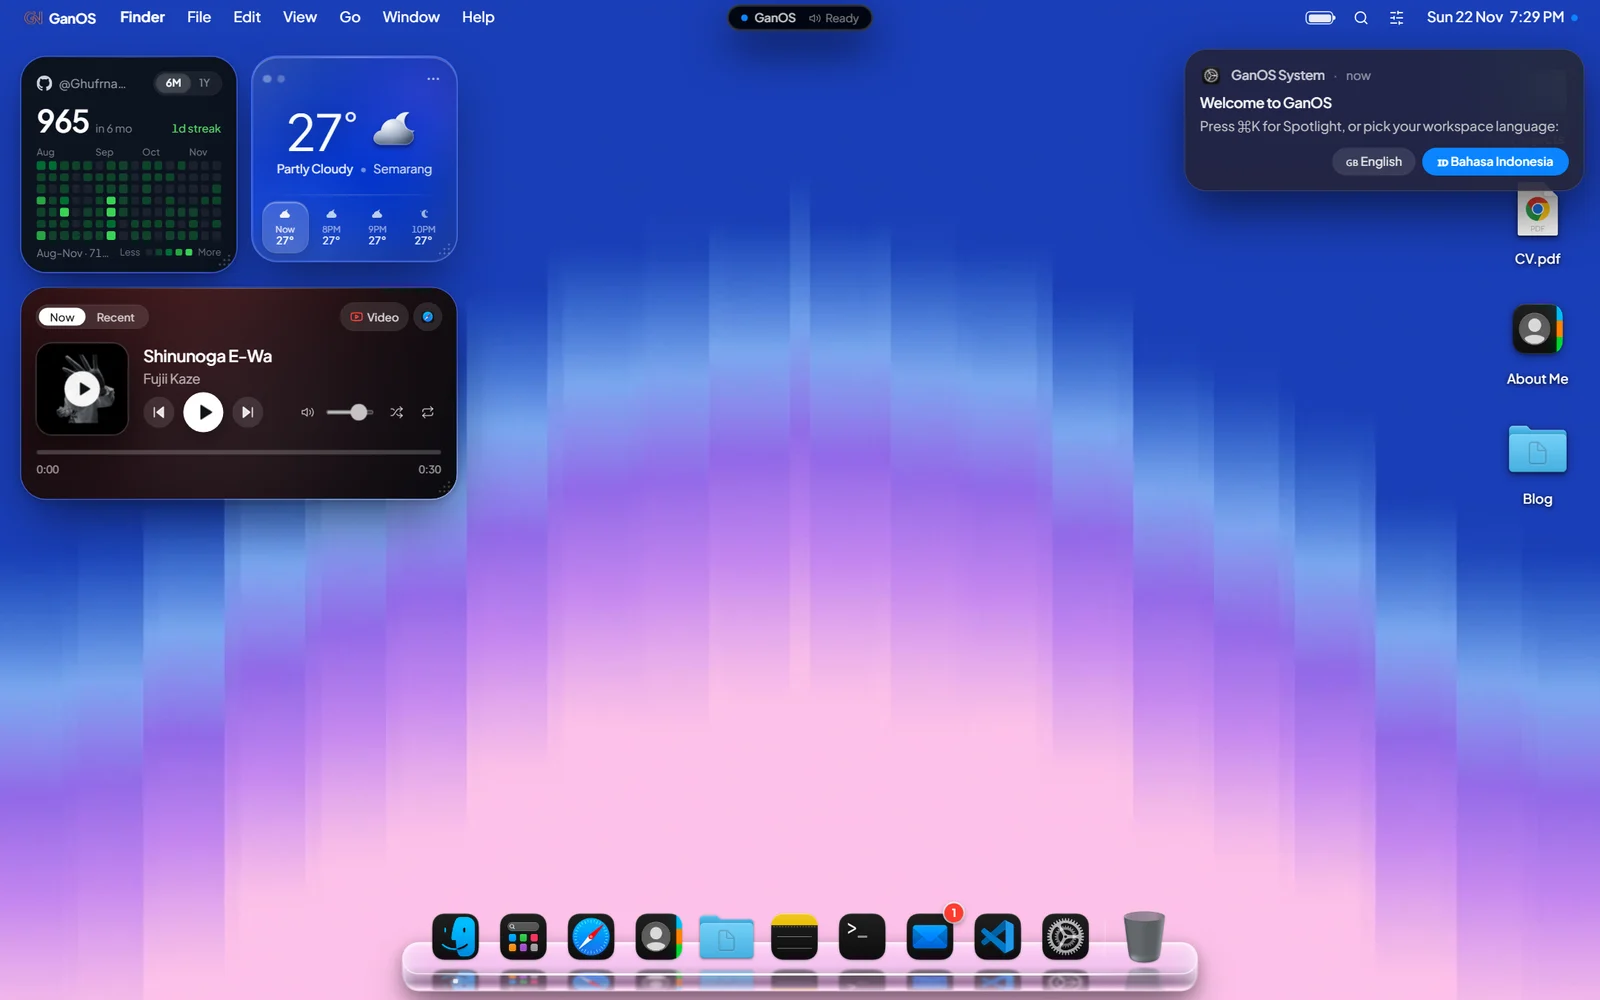
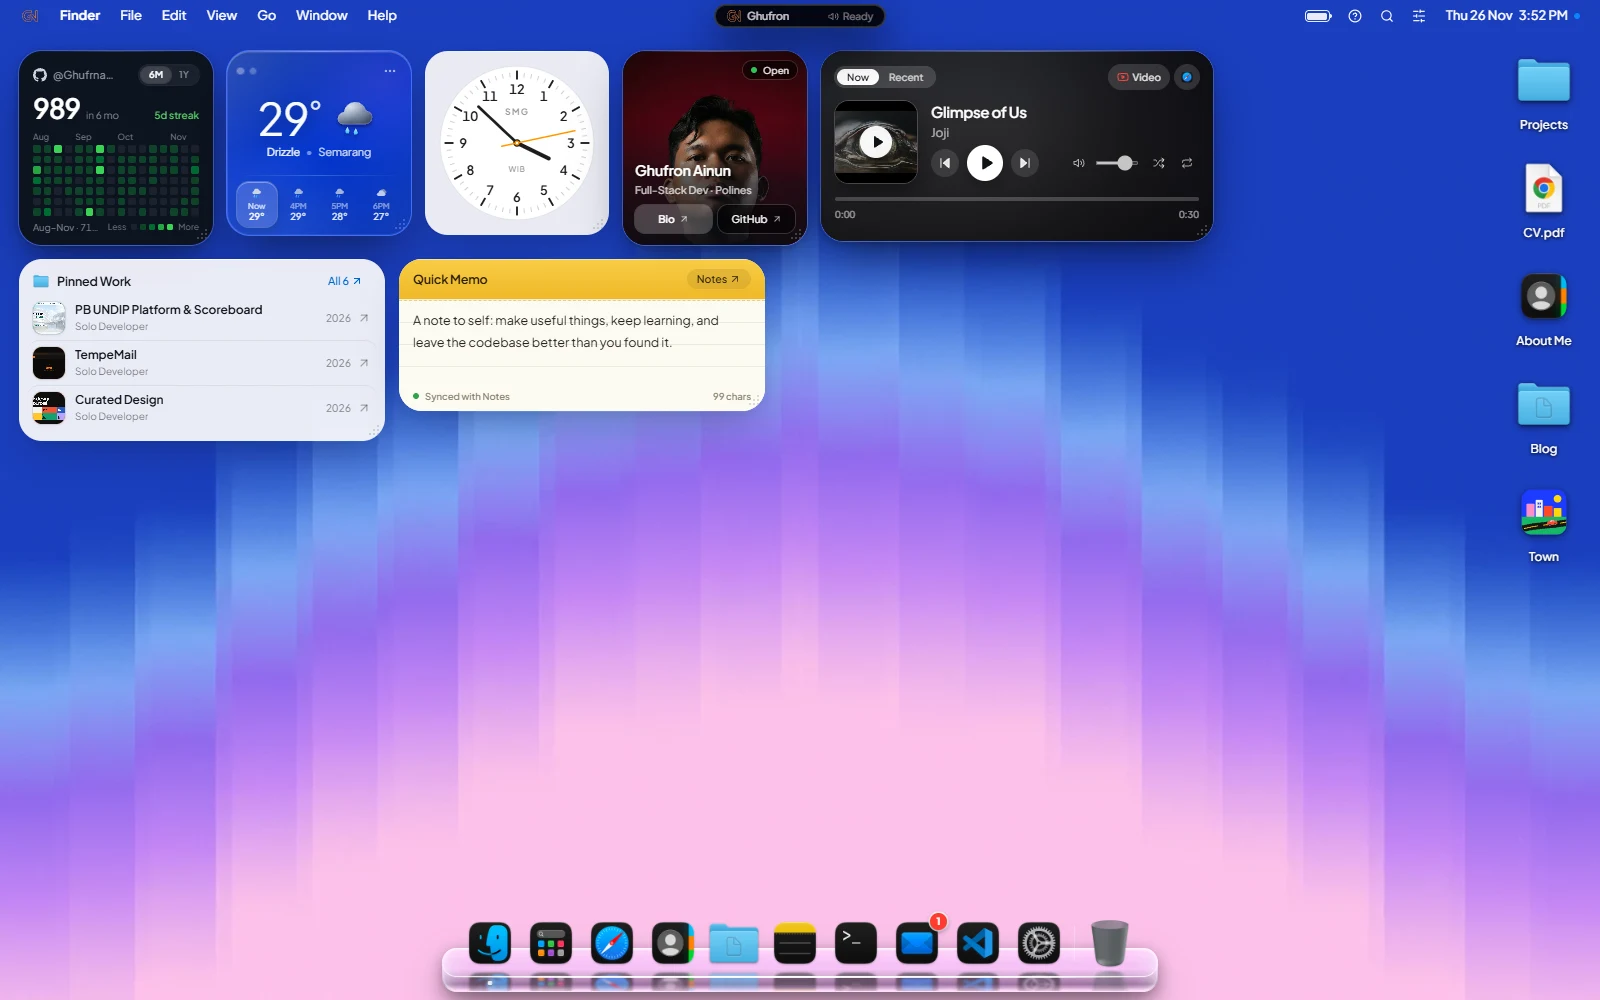
update readme for town and performance updates and refresh preview screenshots

diff --git a/README.md b/README.md
@@ -10,27 +10,33 @@
 
 ## Overview
 
-This repository powers **[ghufronainun.tech](https://ghufronainun.tech/)** — a macOS-inspired interactive web desktop housing the portfolio, engineering case studies, writing log, and resume of **Ghufron Ainun Najib**.
+This repository powers **[ghufronainun.tech](https://ghufronainun.tech/)** — a macOS-inspired interactive web desktop housing the portfolio, engineering case studies, 3D drive-through showcase (**Ghufron Town** at `/town`), writing log, and resume of **Ghufron Ainun Najib**.
 
-Designed with tactile liquid-glass surfaces, hardware-decoded animated wallpapers, spring-driven window management, and an adaptive iOS/iPadOS-style mobile home screen. The previous editorial portfolio remains preserved at `/old` and browseable directly inside the embedded Safari app.
+Designed with tactile liquid-glass surfaces, GPU-accelerated window & widget dragging, hardware-decoded animated wallpapers, spring-driven window management, and an adaptive iOS/iPadOS-style mobile home screen. The previous editorial portfolio remains preserved at `/old` and browseable directly inside the embedded Safari app.
 
 ---
 
 ## Previews
 
-| Finder & Case Studies | Mobile OS Home Screen |
+| Finder & Case Studies | Ghufron Town (3D) |
 | :---: | :---: |
-| ![Projects Finder](docs/screenshots/ganos-projects.webp) | <img src="docs/screenshots/ganos-mobile.webp" alt="Mobile Home Screen" width="260" /> |
+| ![Projects Finder](docs/screenshots/ganos-projects.webp) | ![Ghufron Town 3D](docs/screenshots/ganos-town.webp) |
+
+<p align="center">
+  <strong>Mobile OS Home Screen</strong><br />
+  <img src="docs/screenshots/ganos-mobile.webp" alt="Mobile Home Screen" width="260" />
+</p>
 
 ---
 
 ## Highlights
 
-- **Interactive Desktop Shell (`v2.4`)**: Draggable/resizable windows with edge snapping, 3D glass dock with magnification physics, Menu Bar, Control Center, Dynamic Island, `⌘K` Spotlight search, `⌘Tab` app switcher, and Notification Center.
-- **Built-in Apps**: Finder (Projects & Case Studies), curated sandboxed Safari (`/old`, portfolio routes, & YouTube embeds), Notes (with interactive skills checklist & scratchpad), interactive `zsh` Terminal (`help`, `neofetch`, `open`, `notify`), Mail, and System Settings (appearance, system font switcher, display brightness, and 16 dynamic/still wallpapers).
-- **Live Desktop Widgets**: GitHub contribution heatmap & 12-month velocity bar chart (`6M` / `1Y`), live Semarang weather widget with adaptive glass refraction, interactive Music player, Quick Memo, and responsive Mobile Home Screen widget stack.
+- **Interactive Desktop Shell (`v2.4`)**: Zero-rerender GPU-translated window/widget dragging with edge snapping, 3D glass dock with magnification physics & hover chunk preloading, Menu Bar, Control Center, Dynamic Island, instant `⌘K` Spotlight search, `⌘Tab` app switcher, anchored 3-step Quick Start Guide, interactive Trash easter eggs, and lazy Notification Center.
+- **Ghufron Town (`/town`)**: Interactive Three.js 3D world with scroll tour and free-drive navigation across featured projects, day/night switch, deep-linked project sheets (`/town/<slug>`), and an accessible reduced-motion fallback.
+- **Built-in Apps**: Finder (Projects & Case Studies), curated sandboxed Safari (`/old`, portfolio routes, & YouTube embeds), Notes (interactive skills checklist & scratchpad), interactive `zsh` Terminal (`help`, `neofetch`, `open`, `notify`), Mail, and System Settings (appearance, on-demand font switcher, display brightness, and 16 dynamic/still wallpapers).
+- **Live Desktop Widgets**: GitHub contribution heatmap & 12-month velocity bar chart (`6M` / `1Y`), live Semarang Weather widget with GPU specular glass refraction, Semarang `WIB` analog/digital Clock, Profile card, Music player, Pinned Work, Quick Memo, and responsive Mobile Home Screen widget stack.
 - **Hardware-Decoded Wallpapers**: 16 curated wallpapers (9 seamless H.264 MP4 loops with instant WebP posters + 7 high-res stills) with automatic `prefers-reduced-motion` and tab-visibility throttling.
-- **Prerendered SEO & Structured Data**: Static HTML prerendering across all 11 public routes, dynamic Open Graph & Twitter Cards (`public/og-image.png`), JSON-LD schemas (`Person`, `ProfilePage`, `WebSite`, `SoftwareApplication`), `sitemap.xml`, `robots.txt`, and `llms.txt`.
+- **Prerendered SEO & Performance**: Static HTML prerendering across 18 public routes (`5` static + `/town` + `6` project case studies + `6` town project routes), dynamic Open Graph & Twitter Cards (`public/og-image.png`), JSON-LD schemas (`Person`, `ProfilePage`, `WebSite`, `SoftwareApplication`), `sitemap.xml` (12 canonical URLs), `robots.txt`, `llms.txt`, on-demand non-critical Google Fonts, and compacted SVG brand vectors.
 - **Supabase Writing Log**: Type-safe blog queries, Tiptap rich-text editor, and Row-Level Security (RLS) for `/blog` and `/admin`.
 
 ---
@@ -79,6 +85,7 @@ Designed with tactile liquid-glass surfaces, hardware-decoded animated wallpaper
 | **Frontend** | React 18, TypeScript 5, Vite 5 (SWC), React Router 6 |
 | **Styling & UI** | Tailwind CSS 3, Radix UI Primitives, Lucide Icons |
 | **Motion** | Framer Motion 12, GSAP, Lenis Scroll |
+| **3D Graphics** | Three.js, WebGL |
 | **Data & State** | Supabase JS (`@supabase/supabase-js`), TanStack Query 5 |
 | **Rich Text** | Tiptap Editor (`@tiptap/react`) |
 | **Build & Assets** | Sharp, Static HTML Prerenderer, Sitemap Generator |
@@ -89,7 +96,7 @@ Designed with tactile liquid-glass surfaces, hardware-decoded animated wallpaper
 
 ```text
 .
-├── docs/screenshots/          # README desktop, Finder & mobile previews
+├── docs/screenshots/          # README desktop, Finder, Town 3D & mobile previews
 ├── public/                    # Static assets, wallpapers, audio, icons & metadata
 │   ├── wallpapers/            # Curated H.264 MP4 loops, WebP posters & thumbnails
 │   ├── macos-icons/           # App & desktop icon assets
@@ -107,8 +114,9 @@ Designed with tactile liquid-glass surfaces, hardware-decoded animated wallpaper
 │   ├── data/                  # Static content (featuredProjects, sideProjects, profile, tracks)
 │   ├── hooks/                 # Custom hooks (SEO metadata, auth, analytics)
 │   ├── integrations/supabase/ # Supabase client & typed schema
-│   ├── lib/                   # Dock physics, weather, audio & notification utilities
-│   └── pages/                 # Route-level views (Index, Projects, About, Blog, Resume, OldHome)
+│   ├── lib/                   # Dock physics, weather, font loader, audio & notification utilities
+│   ├── pages/                 # Route-level views (Index, Town, Projects, About, Blog, Resume, OldHome)
+│   └── town/                  # Ghufron Town 3D world, tour camera/driving physics & UI overlays
 └── supabase/                  # Database migrations & storage policies
 ```
 
@@ -148,13 +156,15 @@ Designed with tactile liquid-glass surfaces, hardware-decoded animated wallpaper
 | Command | Action |
 |---|---|
 | `npm run dev` | Starts Vite dev server with HMR |
-| `npm run build` | Generates sitemap, runs `tsc -p tsconfig.app.json --noEmit`, compiles `dist/`, and prerenders 11 static pages |
+| `npm run build` | Generates sitemap, runs `tsc -p tsconfig.app.json --noEmit`, compiles `dist/`, and prerenders 18 static pages |
+| `npm run build:assets` | Regenerates brand SVG/PNG/ICO icons and Open Graph share image |
 | `npm run preview` | Serves the production build locally |
 | `npm run lint` | Runs ESLint across all `.ts`/`.tsx` files (zero warnings) |
 | `npm run test:portfolio` | Validates featured & side project metadata |
 | `npm run test:profile` | Validates profile, experience & certification data |
 | `npm run test:ux` | Validates route navigation matching |
 | `npm run test:widget-layout` | Validates desktop icon & widget layout geometry |
+| `npm run test:town` | Validates 3D Ghufron Town tour math |
 
 ---
 
